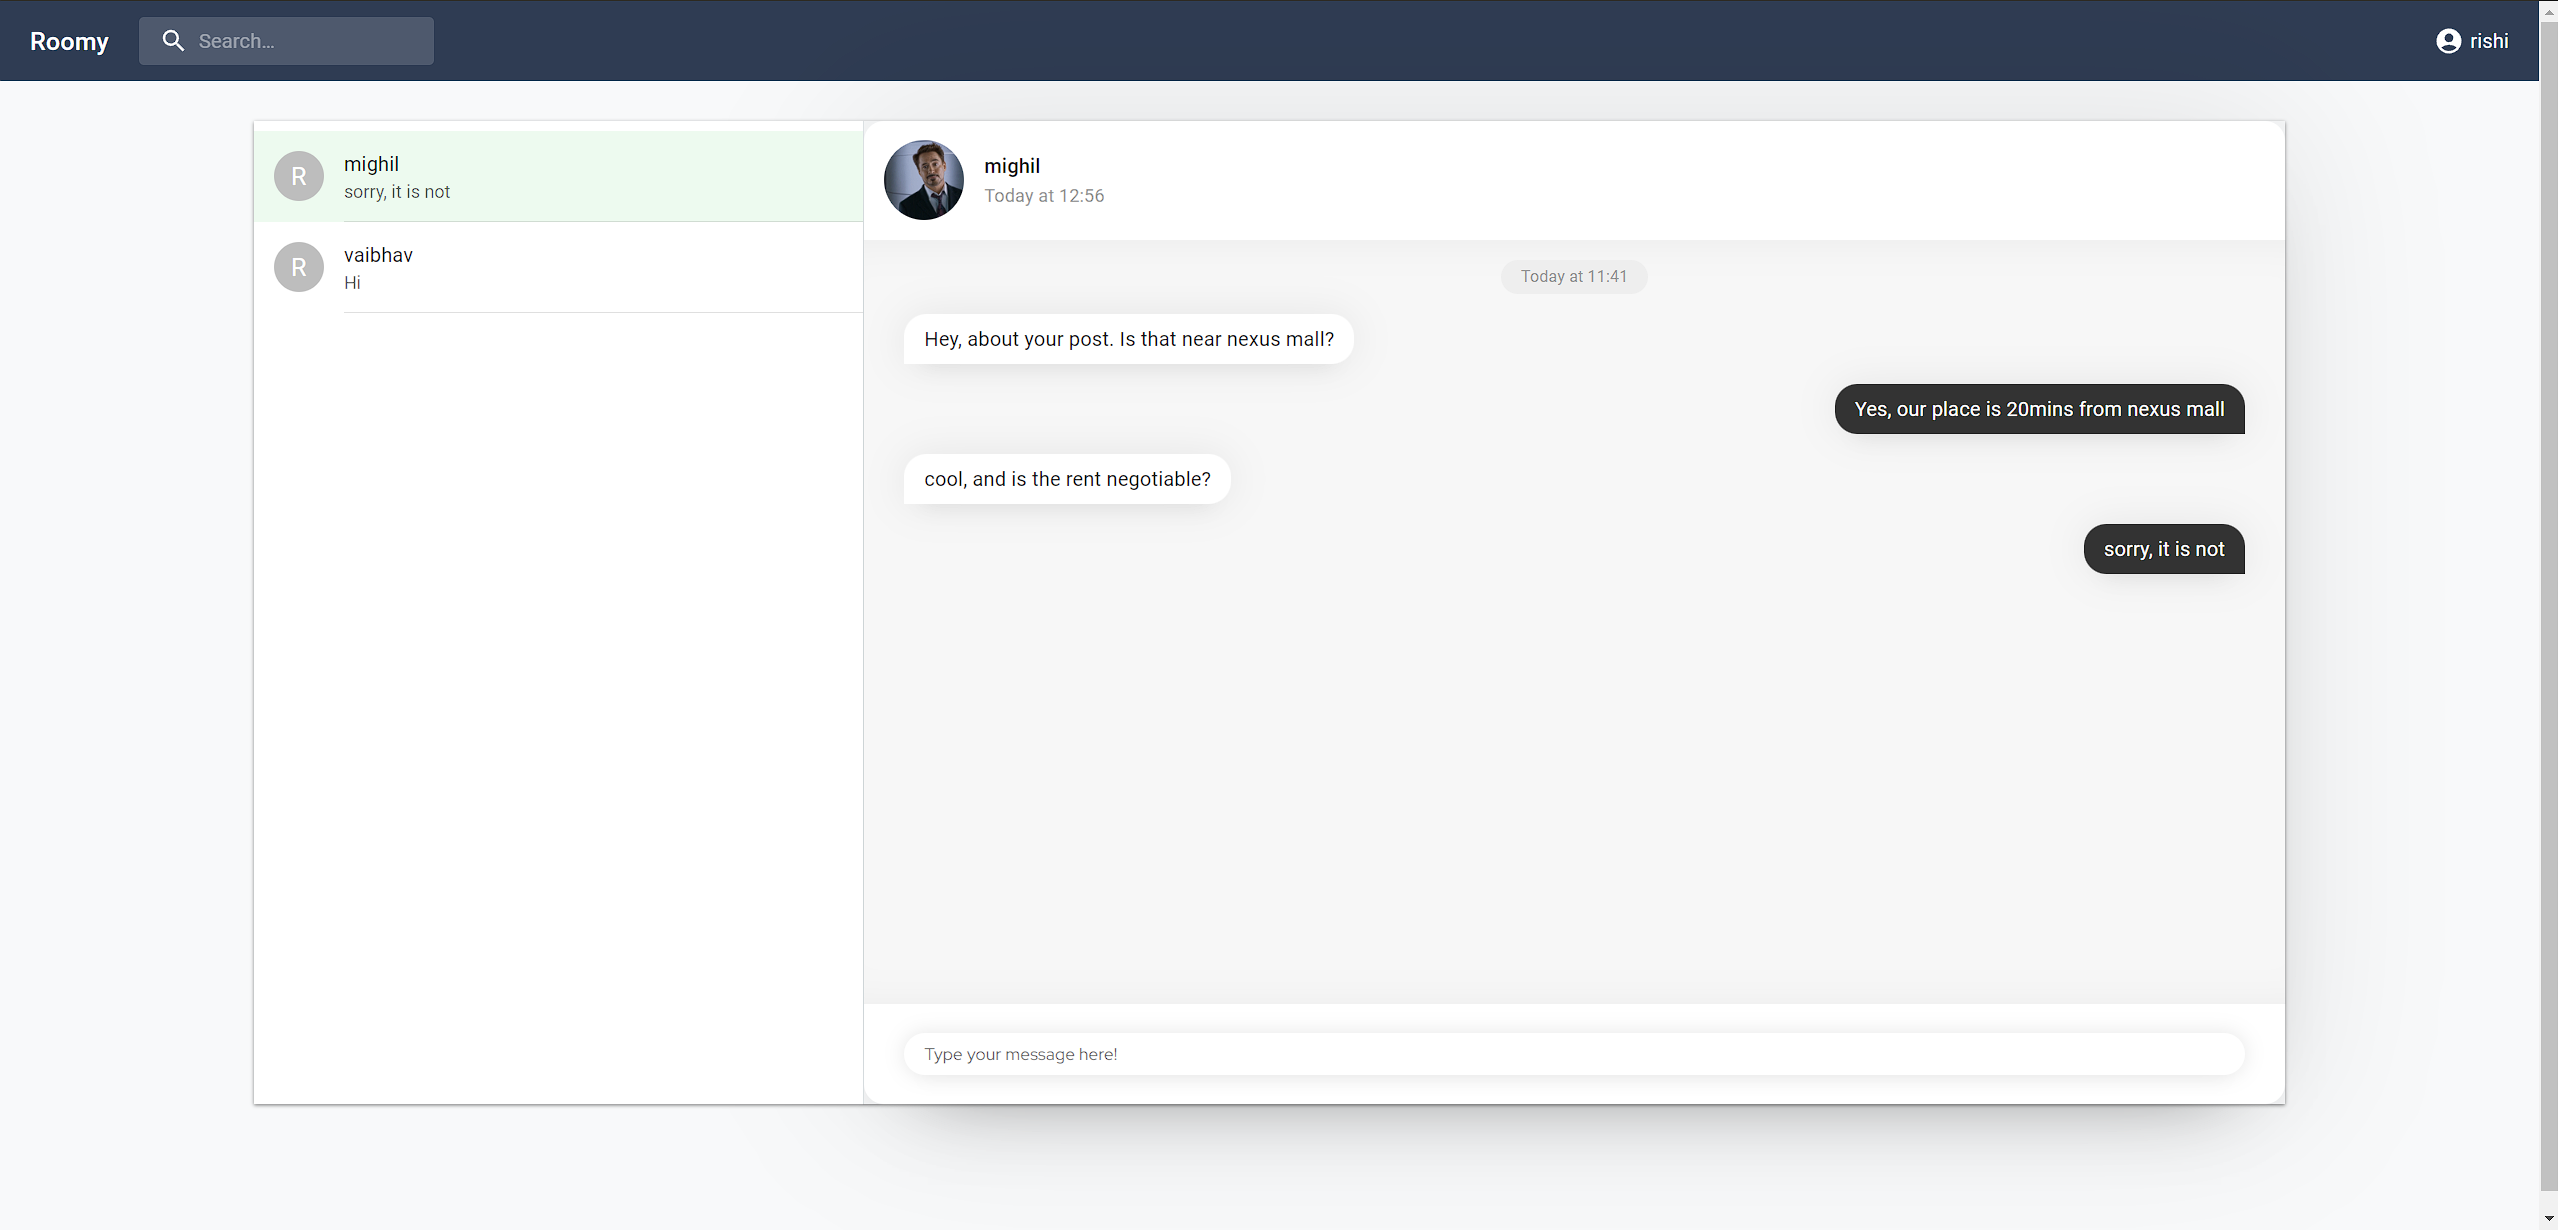
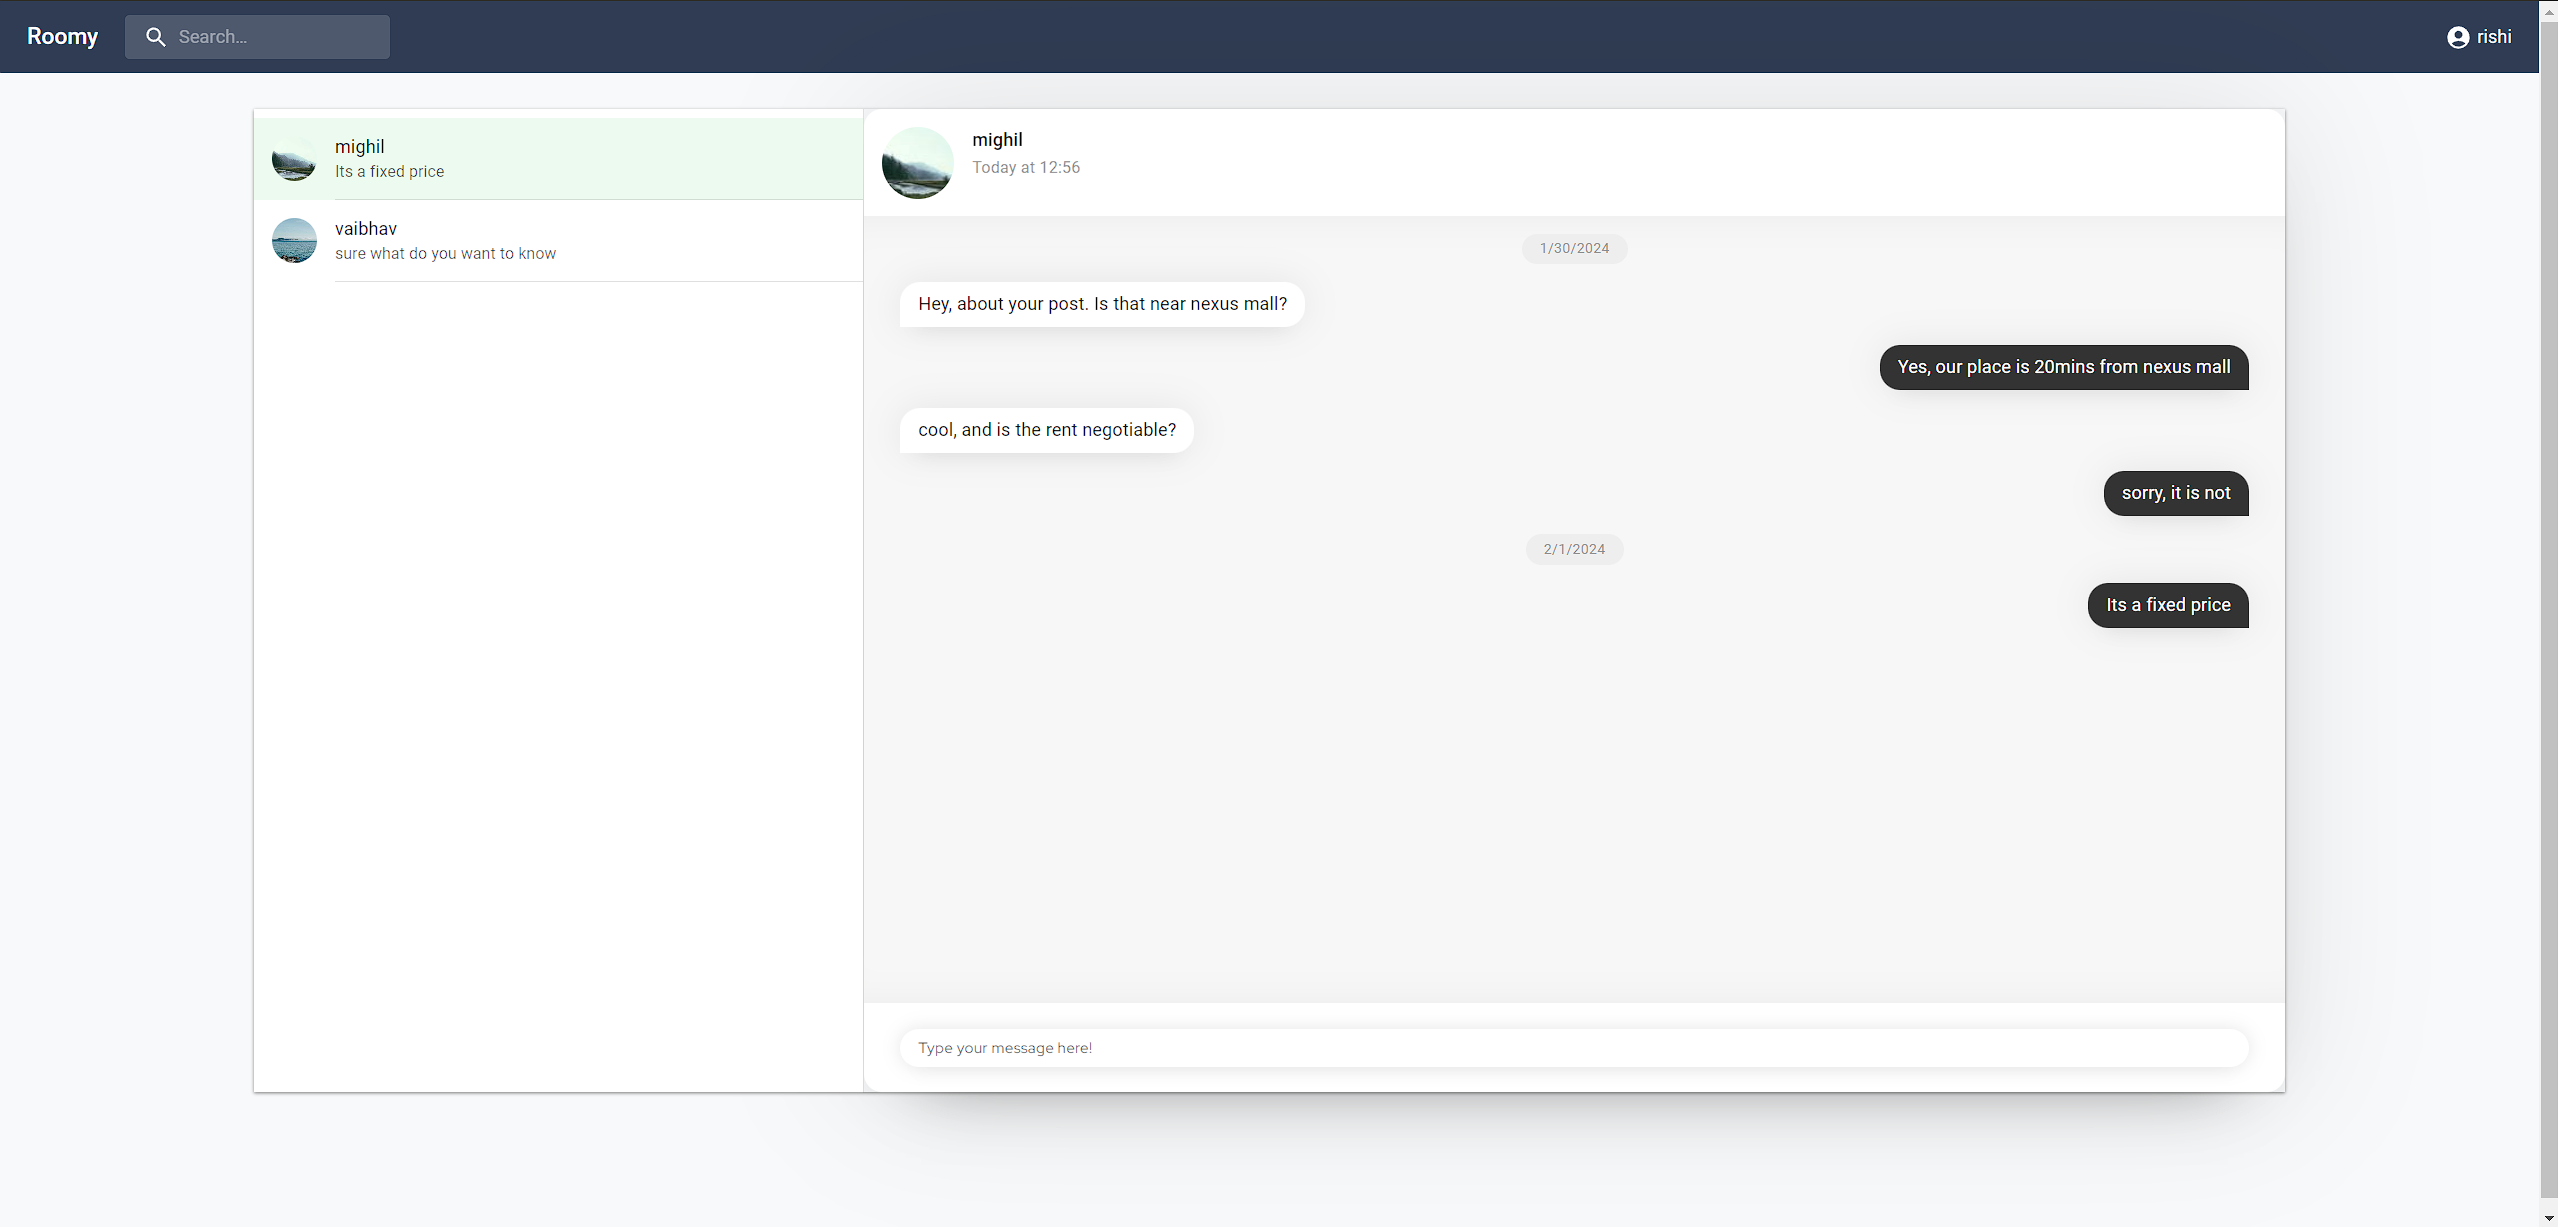
fix chat date

diff --git a/src/components/Chat/MessagePane.tsx b/src/components/Chat/MessagePane.tsx
@@ -4,6 +4,9 @@ import io from 'socket.io-client';
 import React, { useState, useMemo, useRef, useEffect } from "react";
 import type { Socket } from "socket.io-client";
 import type { RefObject, MutableRefObject } from "react";
+import ListItemAvatar from "@mui/material/ListItemAvatar";
+import Avatar from "@mui/material/Avatar";
+import { List, ListItem } from "@mui/material";
 
 interface MessagePaneProps {
   selectUser: ConversedUser;
@@ -49,17 +52,40 @@ const MessagePane: React.FC<MessagePaneProps> = ({ selectUser, messages, socket 
   } = useGetUserQuery({});
 
   let content;
+  let curDate: string;
+
   if (messages == null || messages.length == 0 || isUserLoading)
-    content = <div>Nothing lol</div>
+    content = <div></div>
   else {
     content = messages.map((message) => {
-      if (message.senderId == loggedInUser.userId)
-        return <div key={message.messageId} className="message parker">
-          {message.content}
-        </div>
-      else
-        return <div key={message.messageId} className="message stark">{message.content}</div>
-    })
+      let messageDate = new Date(message.sent_at ? message.sent_at : "").toLocaleDateString();
+      let showDate = false;
+      if (messageDate !== curDate) {
+        showDate = true;
+        curDate = messageDate;
+      }
+
+      if (message.senderId === loggedInUser.userId) {
+        return (
+          <div key={message.messageId}>
+            {showDate && <div className="time">{messageDate}</div>}
+            <div className="message parker">
+              {message.content}
+            </div>
+          </div>
+        );
+      } else {
+        return (
+          <div key={message.messageId}>
+            {showDate && <div className="time">{messageDate}</div>}
+            <div className="message stark">
+              {message.content}
+            </div>
+          </div>
+
+        );
+      }
+    });
     // socket?.current.on("receive_message", (data) => {
     //   // console.log(`Received message for user ${conversation.userId}:`, data);
     //   // Handle the received message in your React component
@@ -81,12 +107,21 @@ const MessagePane: React.FC<MessagePaneProps> = ({ selectUser, messages, socket 
     <div className="messagesPane">
       <div className="chat">
         <div className="contact bar">
-          <div className="pic stark"></div>
+          <div className="pic">
+            <img src={`https://picsum.photos/id/${selectUser.userId}/75`} />
+            {/* <ListItemAvatar
+              sx={{
+                width: "4rem",
+                height: "4rem"
+              }}
+            >
+              <Avatar alt="Remy Sharp" src={`https://picsum.photos/id/${selectUser.userId}/400`} />
+            </ListItemAvatar> */}
+          </div>
           <div className="name">{selectUser.name}</div>
           <div className="seen">Today at 12:56</div>
         </div>
         <div className="messages" id="chat">
-          <div className="time">Today at 11:41</div>
           {/* <div className="message parker">
             Hey, man! What's up, Mr Stark? 👋
           </div>

diff --git a/src/css/chat.scss b/src/css/chat.scss
@@ -44,6 +44,14 @@ $background: #f7f7f7;
   background-size: cover;
   background-position: center;
   border-radius: 50%;
+  // text-align: center;
+  // border: 1px solid red;
+  // border: 1px solid red;
+  padding: 0;
+  overflow: hidden;
+  img {
+    object-fit: contain;
+  }
 }
 
 .contact {
@@ -51,10 +59,10 @@ $background: #f7f7f7;
   margin-bottom: 1rem;
   padding-left: 5rem;
   // height: 4.5rem;
-
+  // border: 1px solid green;
   display: flex;
   flex-direction: column;
-  justify-content: center;
+  justify-content: left;
 
   .pic {
     position: absolute;
@@ -64,6 +72,9 @@ $background: #f7f7f7;
   .name {
     font-weight: 500;
     margin-bottom: 0.125rem;
+    // border: 1px solid yellow;
+    margin-left: 0;
+    padding-left: 0;
   }
 
   .message,
@@ -72,21 +83,21 @@ $background: #f7f7f7;
     color: $text-3;
   }
 
-  .badge {
-    box-sizing: border-box;
-    position: absolute;
-    width: 1.5rem;
-    height: 1.5rem;
-    text-align: center;
-    font-size: 0.9rem;
-    padding-top: 0.125rem;
-    border-radius: 1rem;
+  // .badge {
+  //   box-sizing: border-box;
+  //   position: absolute;
+  //   width: 1.5rem;
+  //   height: 1.5rem;
+  //   text-align: center;
+  //   font-size: 0.9rem;
+  //   padding-top: 0.125rem;
+  //   border-radius: 1rem;
 
-    top: 0;
-    left: 2.5rem;
-    background: $text-1;
-    color: white;
-  }
+  //   top: 0;
+  //   left: 2.5rem;
+  //   background: $text-1;
+  //   color: white;
+  // }
 }
 
 .contacts {
@@ -255,9 +266,9 @@ $background: #f7f7f7;
 // Obviously in a real app I would load this from a DB with JS
 // For now this is a nice quick and easy method to mockup
 
-.pic.stark {
-  background-image: url("https://vignette.wikia.nocookie.net/marvelcinematicuniverse/images/7/73/SMH_Mentor_6.png");
-}
+// .pic.stark {
+//   background-image: url("https://xsgames.co/randomusers/avatar.php?g=pixel");
+// }
 .pic.banner {
   background-image: url("https://vignette.wikia.nocookie.net/marvelcinematicuniverse/images/4/4f/BruceHulk-Endgame-TravelingCapInPast.jpg");
 }

diff --git a/src/components/Chat/ConversationItem.tsx b/src/components/Chat/ConversationItem.tsx
@@ -21,6 +21,14 @@ const ConversationItem: React.FC<ConversationItemProps> = ({ conversedUser, setS
     // console.log(clickedUser)
     setSelectedUser(clickedUser)
   }
+
+  const style = {
+    '@media (max-width: 600px)': {
+      display: "none"
+    }
+  }
+
+
   const
     { data: lastMessage,
       refetch: refetchLastMessage
@@ -30,9 +38,10 @@ const ConversationItem: React.FC<ConversationItemProps> = ({ conversedUser, setS
     <div className={"listItemContainer" + (selectedUser.userId == conversedUser.userId ? " selectedUser" : "")} onClick={() => handleClick(conversedUser)}>
       <ListItem alignItems="flex-start">
         <ListItemAvatar>
-          <Avatar alt="Remy Sharp" src="/static/images/avatar/1.jpg" />
+          <Avatar alt="Remy Sharp" src={`https://picsum.photos/id/${conversedUser.userId}/200/300`} />
         </ListItemAvatar>
         <ListItemText
+          sx={style}
           primary={conversedUser.name}
           secondary={
             <React.Fragment>

diff --git a/src/components/NavBar.tsx b/src/components/NavBar.tsx
@@ -6,8 +6,8 @@ import Toolbar from '@mui/material/Toolbar';
 import IconButton from '@mui/material/IconButton';
 import Typography from '@mui/material/Typography';
 import InputBase from '@mui/material/InputBase';
-import Badge from '@mui/material/Badge';
 import MenuItem from '@mui/material/MenuItem';
+import { useEffect } from 'react';
 import Menu from '@mui/material/Menu';
 import MenuIcon from '@mui/icons-material/Menu';
 import Link from '@mui/material/Link';
@@ -74,6 +74,10 @@ export default function Navbar() {
     isError: userDataError,
     refetch: refetchUserData,
   } = useLoadUserQuery({});
+
+  useEffect(() => {
+    refetchUserData();
+  }, [])
 
   const [anchorEl, setAnchorEl] = React.useState<null | HTMLElement>(null);
   const [mobileMoreAnchorEl, setMobileMoreAnchorEl] =

diff --git a/src/css/login.scss b/src/css/login.scss
@@ -159,9 +159,9 @@
 @media only screen and (max-width: 800px) {
   /* For mobile: */
   .login-body {
-    width: 90%;
+    width: 100%;
     flex-direction: column;
-    // border: 1px solid red;
+    border: 1px solid red;
   }
 
   .login-left-pane {
